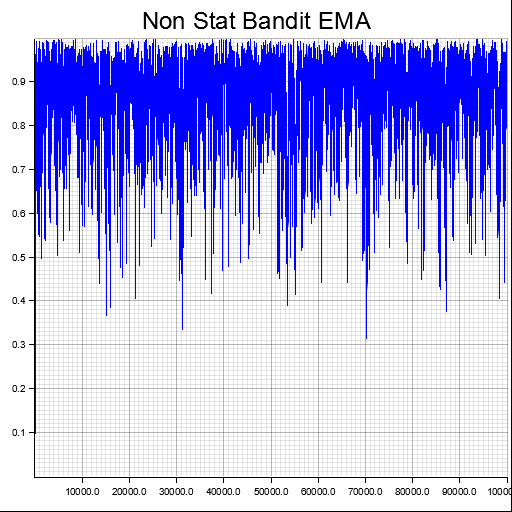
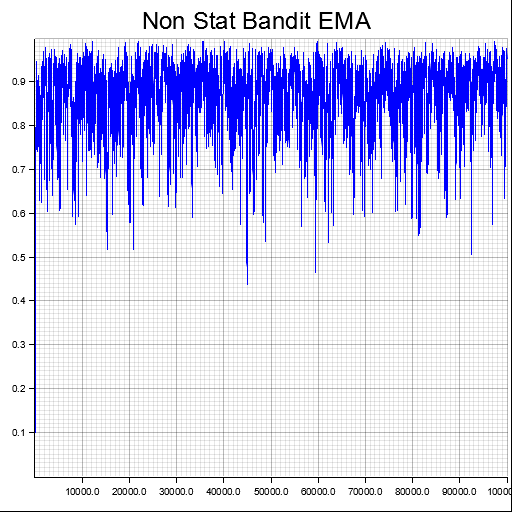
floor

Changed region(s): [[0.0625, 0.0625, 1.0, 0.5938]]

diff --git a/src/main.rs b/src/main.rs
@@ -1,136 +1,25 @@
 use plotters::prelude::*;
-use rand::{Rng, seq::SliceRandom};
 
-struct Bandit<const ARMS: usize> {
-    rates: [f64; ARMS],
-}
-
-impl<const ARMS: usize> Bandit<ARMS> {
-    fn new() -> Self {
-        let mut rnd = rand::thread_rng();
-        let rates = [0.0; ARMS].map(|_| rnd.gen());
-        let wtb = 0.5;
-        let rates = Self::normalize_expected_value(rates, wtb);
-        println!("{:?}", rates);
-        Self { rates }
-    }
-    fn play(&mut self, arm: usize) -> f64 {
-        let a = 0.01;
-        self.rates
-            .iter_mut()
-            .for_each(|p| *p = (1.0 - a) * *p + a * rand::thread_rng().gen::<f64>());
-        let wtb = 0.5;
-        self.rates = Self::normalize_expected_value(self.rates, wtb);
-
-        let rate: f64 = self.rates[arm.min(ARMS - 1)];
-        let rand_num: f64 = rand::thread_rng().gen();
-        if rand_num < rate {
-            1.0
-        } else {
-            0.0
-        }
-    }
-    fn normalize_expected_value(mut rates: [f64; ARMS], wtb: f64) -> [f64; ARMS] {
-
-        // 分散させる -------------------
-        let mut rng = rand::thread_rng();
-        let mut x = vec![0; ARMS];
-        x.iter_mut().enumerate().for_each(|(i, v)| *v = i);
-        x.shuffle(&mut rng);
-
-        // vi = d xi / dt
-        // v0 + v1 + v2 = 0
-        // x0v0 + x1v1 + x2v2 > 0
-
-        let mut v = [0.0; 3];
-        v[0] = 1.0;
-
-        if rates[x[2]] - rates[x[1]] != 0.0 {
-            v[2] = (rates[x[1]] - rates[x[0]]) / (rates[x[2]] - rates[x[1]]) + 0.01;
-            v[1] = -v[0] - v[2];
-
-            let v_max = v.iter().fold(0.0, |max, vi| if vi.abs() > max {vi.abs()} else {max});
-            let v_wtb = 0.1;
-            let v = v.map(|vi| vi * v_wtb / v_max);
-
-            rates[x[0]] += v[0];
-            rates[x[1]] += v[1];
-            rates[x[2]] += v[2];
-        }
-       
-        // 0<xにする --------------------
-
-        let min = rates.iter().fold(1.0, |min, &x| if x < min {x} else {min});
-        
-        if min < 0.0 {
-            rates.iter_mut().for_each(|r| *r = *r - min);
-        }
-
-        // 期待値をwtb(want to be)にする ----------
-
-        let expected_value = rates.iter().sum::<f64>() / ARMS as f64;
-
-        rates.map(|r| r * wtb / expected_value)
-    }
-}
-
-struct Agent<const ARMS: usize> {
-    epsilon: f64,
-    alpha: f64,
-    q_table: [f64; ARMS],
-    play_counts: [u32; ARMS],
-}
-
-impl<const ARMS: usize> Agent<ARMS> {
-    fn create(epsilon: f64) -> Self {
-        Self {
-            epsilon,
-            alpha: 0.5,
-            q_table: [0.0; ARMS],
-            play_counts: [0; ARMS],
-        }
-    }
-    fn update(&mut self, action: usize, reward: f64) {
-        self.play_counts[action] += 1;
-        self.q_table[action] += (reward - self.q_table[action]) * self.alpha;
-    }
-
-    fn pick_action(&self) -> usize {
-        let rand_num: f64 = rand::thread_rng().gen();
-        if rand_num < self.epsilon {
-            rand::thread_rng().gen_range(0..ARMS)
-        } else {
-            let mut max = 0.0;
-            let mut max_index = 0;
-            for (i, q) in self.q_table.iter().enumerate() {
-                if *q > max {
-                    max = *q;
-                    max_index = i;
-                }
-            }
-
-            max_index
-        }
-    }
-}
+mod bandit;
+mod agent;
+mod floor;
+use crate::floor::*;
 
 const ARMS: usize = 10;
-const EMA_N: usize = 50;
 
 fn runner() -> Result<(), Box<dyn std::error::Error>> {
     let steps = 100_000;
     let epsilon = 0.10;
+    let alpha = 0.5;
 
-    let mut bandit = Bandit::<ARMS>::new();
-    let mut agent = Agent::<ARMS>::create(epsilon);
+    let mut floor = Floor::<ARMS>::create(epsilon, alpha);
 
+    let ema_n = steps as usize / 1000;
     let mut emas = vec![1.0 / ARMS as f64];
-    let a = 2.0 / (EMA_N as f64 + 1.0);
+    let a = 2.0 / (ema_n as f64 + 1.0);
 
-    for step in 0..steps {
-        let action = agent.pick_action();
-        let reward = bandit.play(action);
-        agent.update(action, reward);
+    for _ in 0..steps {
+        let reward = floor.step();
 
         let ema = a * reward + (1.0 - a) * emas.last().unwrap_or(&0.0);
         emas.push(ema);

diff --git a/src/bandit.rs b/src/bandit.rs
@@ -1,0 +1,74 @@
+use rand::{Rng, seq::SliceRandom};
+
+pub struct Bandit<const ARMS: usize> {
+    rates: [f64; ARMS],
+}
+
+impl<const ARMS: usize> Bandit<ARMS> {
+    pub fn new() -> Self {
+        let mut rnd = rand::thread_rng();
+        let rates = [0.0; ARMS].map(|_| rnd.gen());
+        let wtb = 0.5;
+        let rates = Self::normalize_expected_value(rates, wtb);
+        println!("{:?}", rates);
+        Self { rates }
+    }
+    pub fn play(&mut self, arm: usize) -> f64 {
+        let a = 0.01;
+        self.rates
+            .iter_mut()
+            .for_each(|p| *p = (1.0 - a) * *p + a * rand::thread_rng().gen::<f64>());
+        let wtb = 0.5;
+        self.rates = Self::normalize_expected_value(self.rates, wtb);
+
+        let rate: f64 = self.rates[arm.min(ARMS - 1)];
+        let rand_num: f64 = rand::thread_rng().gen();
+        if rand_num < rate {
+            1.0
+        } else {
+            0.0
+        }
+    }
+    fn normalize_expected_value(mut rates: [f64; ARMS], wtb: f64) -> [f64; ARMS] {
+
+        // 分散させる -------------------
+        let mut rng = rand::thread_rng();
+        let mut x = vec![0; ARMS];
+        x.iter_mut().enumerate().for_each(|(i, v)| *v = i);
+        x.shuffle(&mut rng);
+
+        // vi = d xi / dt
+        // v0 + v1 + v2 = 0
+        // x0v0 + x1v1 + x2v2 > 0
+
+        let mut v = [0.0; 3];
+        v[0] = 1.0;
+
+        if rates[x[2]] - rates[x[1]] != 0.0 {
+            v[2] = (rates[x[1]] - rates[x[0]]) / (rates[x[2]] - rates[x[1]]) + 0.01;
+            v[1] = -v[0] - v[2];
+
+            let v_max = v.iter().fold(0.0, |max, vi| if vi.abs() > max {vi.abs()} else {max});
+            let v_wtb = 0.1;
+            let v = v.map(|vi| vi * v_wtb / v_max);
+
+            rates[x[0]] += v[0];
+            rates[x[1]] += v[1];
+            rates[x[2]] += v[2];
+        }
+       
+        // 0<xにする --------------------
+
+        let min = rates.iter().fold(1.0, |min, &x| if x < min {x} else {min});
+        
+        if min < 0.0 {
+            rates.iter_mut().for_each(|r| *r = *r - min);
+        }
+
+        // 期待値をwtb(want to be)にする ----------
+
+        let expected_value = rates.iter().sum::<f64>() / ARMS as f64;
+
+        rates.map(|r| r * wtb / expected_value)
+    }
+}

diff --git a/src/agent.rs b/src/agent.rs
@@ -1,0 +1,54 @@
+use rand::Rng;
+
+pub struct Agent<const ARMS: usize> {
+    epsilon: f64,
+    alpha: f64,
+    q_table: [f64; ARMS],
+    play_freq: [f64; ARMS],
+}
+
+impl<const ARMS: usize> Agent<ARMS> {
+    pub fn create(epsilon: f64, alpha: f64) -> Self {
+        Self {
+            epsilon,
+            alpha,
+            q_table: [0.0; ARMS],
+            play_freq: [0.0; ARMS],
+        }
+    }
+    pub fn update(&mut self, action: usize, reward: f64) {
+        self.play_freq[action] += (1.0 - self.play_freq[action]) * self.alpha;
+        self.q_table[action] += (reward - self.q_table[action]) * self.alpha;
+    }
+
+    pub fn pick_action(&self) -> usize {
+        let rand_num: f64 = rand::thread_rng().gen();
+        if rand_num < self.epsilon {
+            rand::thread_rng().gen_range(0..ARMS)
+
+            // 精度が悪い
+            // self.play_freq.iter()
+            //     .enumerate()
+            //     .fold((0, 0.0), |(min_index, min_freq), (i, &freq)| {
+            //         if freq < min_freq {
+            //             (i, min_freq)
+            //         } else {
+            //             (min_index, min_freq)
+            //         }
+            //     }).0
+        } else {
+            let mut max = 0.0;
+            let mut max_index = 0;
+            for (i, q) in self.q_table.iter().enumerate() {
+                if *q > max {
+                    max = *q;
+                    max_index = i;
+                }
+            }
+
+            max_index
+        }
+    }
+}
+
+

diff --git a/src/floor.rs b/src/floor.rs
@@ -1,0 +1,38 @@
+use crate::bandit::*;
+use crate::agent::*;
+
+pub struct Floor<const ARMS: usize> {
+    bandits: Bandit<ARMS>,
+    bandit_p: [(f64, f64); ARMS],
+    agent: Agent<ARMS>,
+    agent_p: (f64, f64),
+}
+
+impl<const ARMS: usize> Floor<ARMS> {
+    pub fn create(epsilon: f64, alpha: f64) -> Self {
+        let bandits = Bandit::<ARMS>::new();
+        let bandit_p = [(0.0, 0.0); ARMS];
+        let agent = Agent::<ARMS>::create(epsilon, alpha);
+        let agent_p = (0.0, 0.0);
+        Self {
+            bandits,
+            bandit_p,
+            agent,
+            agent_p,
+        }
+
+    }
+    pub fn step(&mut self) -> f64 {
+        let action = self.agent.pick_action();
+        // self.agent_p.0 += action as f64 - 1.0;
+        // let p = self.agent_p.0.floor() as usize;
+        // if p >= ARMS {
+        //     return 0.0;
+        // }
+        let reward = self.bandits.play(action);
+        self.agent.update(action, reward);
+        
+        reward
+
+    }
+}
